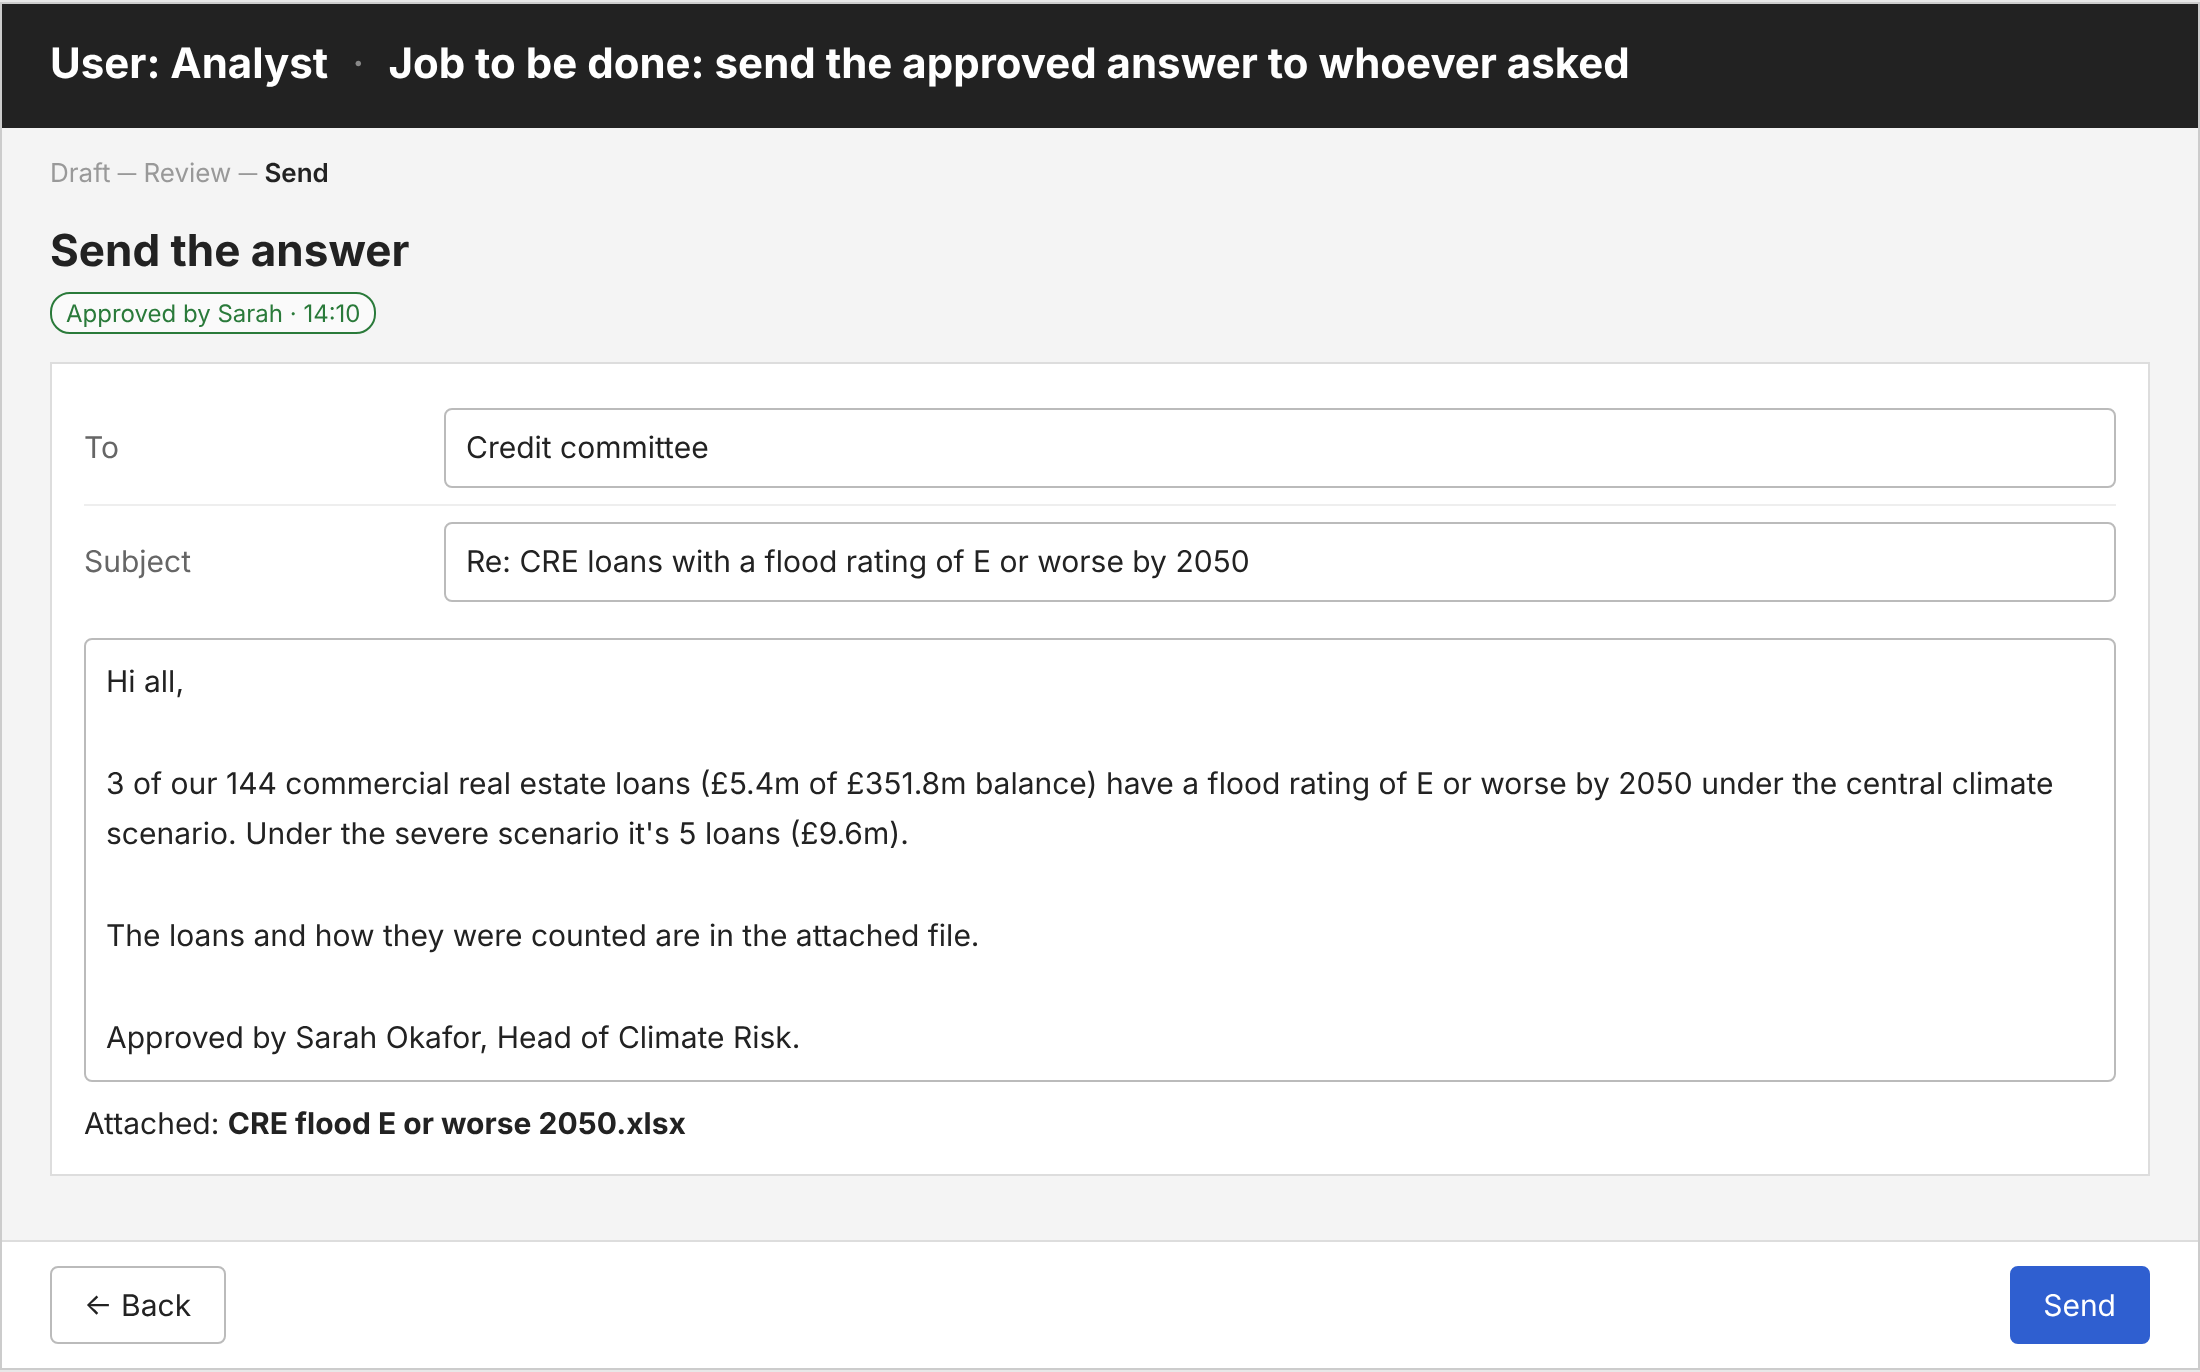
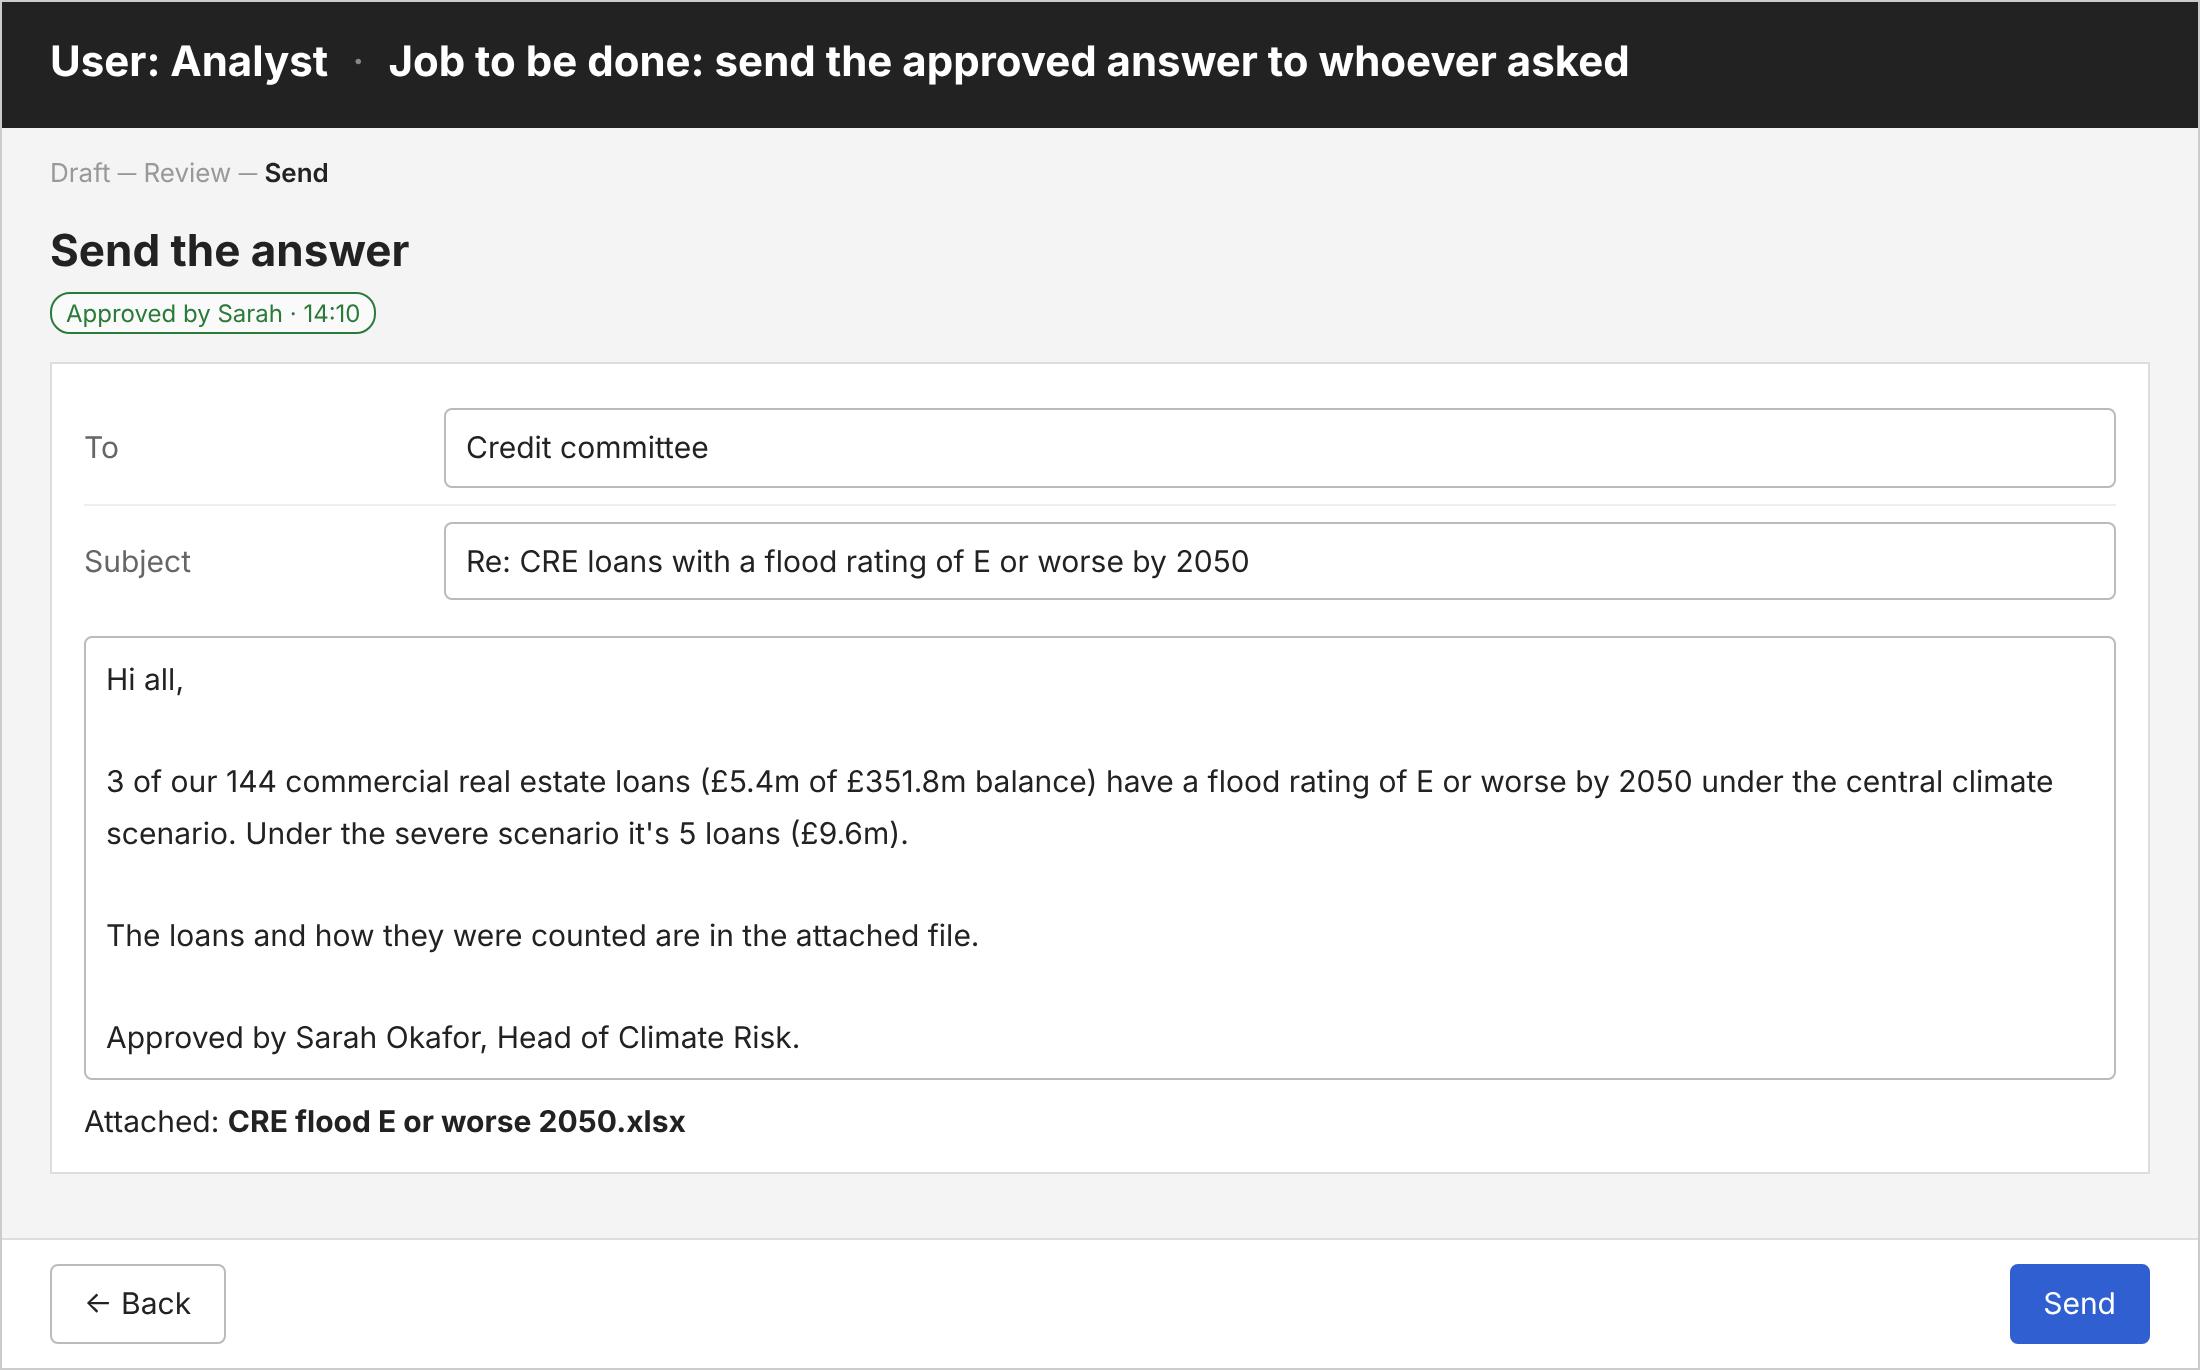
Run 1 solution design: screens to the seven principles (their words, each fact once, edge cases, brief test)
Claude-Session: https://claude.ai/code/session_016JoguXTxkWcj5knaYbAtMZ

diff --git a/runs/run-1/design/solution-design.html b/runs/run-1/design/solution-design.html
@@ -50,14 +50,14 @@ th{text-align:left;font-weight:500;color:var(--mid);font-size:13px;padding:6px 0
 </div>
 <div class="card out">
  <div class="kn" style="font-size:52px">3 loans · £5.4m</div>
- <div class="input" style="margin:14px auto 0;max-width:820px;text-align:left">3 of our 144 CRE loans (£5.4m of £351.8m balance) have a flood rating of E or worse by 2050.</div>
+ <div class="ks" style="margin-top:8px">of 144 · of £351.8m balance</div>
 </div>
 <div class="cols2">
  <div class="card">
   <div class="ctl"><div class="k">Count</div><div><span class="chip">CRE loans</span><span class="chip">Flood rating E or worse</span></div></div>
   <div class="ctl"><div class="k">Scenario</div><div><span class="seg"><span>Low</span><span class="on">Central</span><span>Severe</span></span><span class="mini">Default</span></div></div>
-  <div class="ctl"><div class="k">Year</div><div><span class="seg"><span>2030</span><span class="on">2050</span></span></div></div>
-  <div class="ctl"><div class="k">Leave out</div><div><span class="chip">Loans in default<i>×</i></span><span class="chip">Redeemed since the export<i>×</i></span><span class="chip">Maturing before 2030<i>×</i></span><span class="src">+ Add</span></div></div>
+  <div class="ctl"><div class="k">Horizon</div><div><span class="seg"><span>2030</span><span class="on">2050</span></span></div></div>
+  <div class="ctl"><div class="k">Excludes</div><div><span class="chip">Loans in default<i>×</i></span><span class="chip">Redeemed since the export<i>×</i></span><span class="chip">Maturing before 2030<i>×</i></span><span class="src">+ Add</span></div></div>
  </div>
  <div class="card"><div class="lbl">The 3 loans</div><table>
   <tr><th>Loan</th><th>Property</th><th>Region</th><th style="text-align:right">Balance</th><th style="text-align:right">Rating</th></tr>
@@ -66,7 +66,7 @@ th{text-align:left;font-weight:500;color:var(--mid);font-size:13px;padding:6px 0
   <tr><td>L100322</td><td>Hotel</td><td>East of England</td><td class="r">£1.1m</td><td class="r">E</td></tr></table></div>
 </div>
 <div class="cols2">
- <div class="card"><div class="lbl">Method note</div>We counted commercial real estate loans whose property has a flood rating of E or worse in 2050, under the central scenario. Where a loan has more than one property, we used the worst rating. Loans in default, redeemed since 30 Jun 2026 or maturing before 2030 are left out. Balances are as at 30 Sep 2026.</div>
+ <div class="card"><div class="lbl">Also in the write-up</div>Where a loan has more than one property, its worst rating is used. Balances are as at 30 Sep 2026, with no allowance for repayment.</div>
  <div class="card"><div class="lbl">Note to Sarah</div><div class="input" style="color:#999;min-height:96px">Add a note (optional)</div></div>
 </div>
 </div>
@@ -83,14 +83,14 @@ th{text-align:left;font-weight:500;color:var(--mid);font-size:13px;padding:6px 0
 </div>
 <div class="card out">
  <div class="kn" style="font-size:52px">3 loans · £5.4m</div>
- <div style="margin-top:10px;font-size:18px;color:var(--mid)">3 of our 144 CRE loans (£5.4m of £351.8m balance) have a flood rating of E or worse by 2050.</div>
+ <div class="ks" style="margin-top:8px">of 144 · of £351.8m balance</div>
 </div>
 <div class="cols2">
  <div class="card">
   <div class="ctl"><div class="k">Count</div><div><span class="chip">CRE loans</span><span class="chip">Flood rating E or worse</span></div></div>
   <div class="ctl"><div class="k">Scenario</div><div><span class="input" style="padding:6px 12px">Central ▾</span><span class="mini">Default</span></div></div>
-  <div class="ctl"><div class="k">Year</div><div><span class="input" style="padding:6px 12px">2050 ▾</span></div></div>
-  <div class="ctl"><div class="k">Leave out</div><div><span class="chip">Loans in default<i>×</i></span><span class="chip">Redeemed since the export<i>×</i></span><span class="chip">Maturing before 2030<i>×</i></span><span class="src">+ Add</span></div></div>
+  <div class="ctl"><div class="k">Horizon</div><div><span class="input" style="padding:6px 12px">2050 ▾</span></div></div>
+  <div class="ctl"><div class="k">Excludes</div><div><span class="chip">Loans in default<i>×</i></span><span class="chip">Redeemed since the export<i>×</i></span><span class="chip">Maturing before 2030<i>×</i></span><span class="src">+ Add</span></div></div>
  </div>
  <div class="card"><div class="lbl">The 3 loans</div><table>
   <tr><th>Loan</th><th>Property</th><th>Region</th><th style="text-align:right">Balance</th><th style="text-align:right">Rating</th></tr>
@@ -99,7 +99,7 @@ th{text-align:left;font-weight:500;color:var(--mid);font-size:13px;padding:6px 0
   <tr><td>L100322</td><td>Hotel</td><td>East of England</td><td class="r">£1.1m</td><td class="r">E</td></tr></table></div>
 </div>
 <div class="cols2">
- <div class="card"><div class="lbl">Method note</div>We counted commercial real estate loans whose property has a flood rating of E or worse in 2050, under the central scenario. Where a loan has more than one property, we used the worst rating. Loans in default, redeemed since 30 Jun 2026 or maturing before 2030 are left out. Balances are as at 30 Sep 2026.</div>
+ <div class="card"><div class="lbl">Also in the write-up</div>Where a loan has more than one property, its worst rating is used. Balances are as at 30 Sep 2026, with no allowance for repayment.</div>
  <div class="card"><div class="lbl">Comment to the analyst</div><div class="input" style="color:#999;min-height:96px">Needed to send back</div></div>
 </div>
 </div>

diff --git a/runs/run-1/solution-design.md b/runs/run-1/solution-design.md
@@ -20,9 +20,14 @@ Askers (CRO, committees, pricing, treasury, IR) never touch it: they email the q
 ![Draft](design/draft.png)
 
 - **Removes:** choosing scenario, horizon and loans by hand, the write-up, and "what about severe?" restarting it
-- **Inputs:** question, asked by and data (required). Scenario, year and leave-out start on Sarah's standard for that asker; the year follows the question. Note to Sarah is optional
-- **Checks:** year differs from the question, or the data is stale → shown here, so the analyst fixes it before Sarah sees it. Loss to the bank → refused, with why
-- **Ends in:** Send draft to Sarah. The number updates live as the toggles change
+- **Inputs:** question, asked by and data. Scenario, horizon and exclusions start on Sarah's standard for that asker, so the analyst only confirms; the horizon follows the question. Note to Sarah is optional
+- **Edge cases, said where they happen:**
+  - No year in the question → horizon starts on the asker's default, marked "Default"
+  - A year not in the data ("present-day") → "This data has 2030 and 2050. Use 2030?"
+  - Horizon or data doesn't match the question → shown on this screen, so the analyst fixes it before Sarah sees it
+  - Nothing matches → "0 loans" with the controls still visible to widen it
+  - Loss to the bank → "Can't calculate loss to the bank from this data. Show damage to properties instead?"
+- **Ends in:** Send draft to Sarah. The number updates as the controls change
 
 ## 2. Review the draft
 ![Review](design/review.png)
@@ -50,5 +55,8 @@ Askers (CRO, committees, pricing, treasury, IR) never touch it: they email the q
 
 The CRO, pricing and treasury figures are from the Spectra file alone; recompute them with the default exclusions when the prototype is rebuilt.
 
-## Not yet tested
-- Main flow walked once as the analyst and as Sarah. Next: the Draft screen with a handful of edge cases (no year in the question, a hazard not in the data, zero loans), then with Sarah and an analyst
+## Tested briefly
+- **Main flow,** walked once as the analyst and as Sarah: each screen is one step; nothing asks for something the user doesn't have
+- **Draft screen edge cases, checked against the engine:** no year in the question (falls back to 2050, 3 loans) · zero result (wind G at 2030: 0 of 144, £0) · years in the data (2030 and 2050 only)
+- **Personas on the Draft screen:** a new analyst (does "Default" make clear it can be changed? likely yes, it sits beside the toggle) · Sarah (would she trust 3 loans without the full write-up on screen? test with her)
+- **With real users later:** time from question to draft for an analyst; whether Sarah approves without opening Excel
